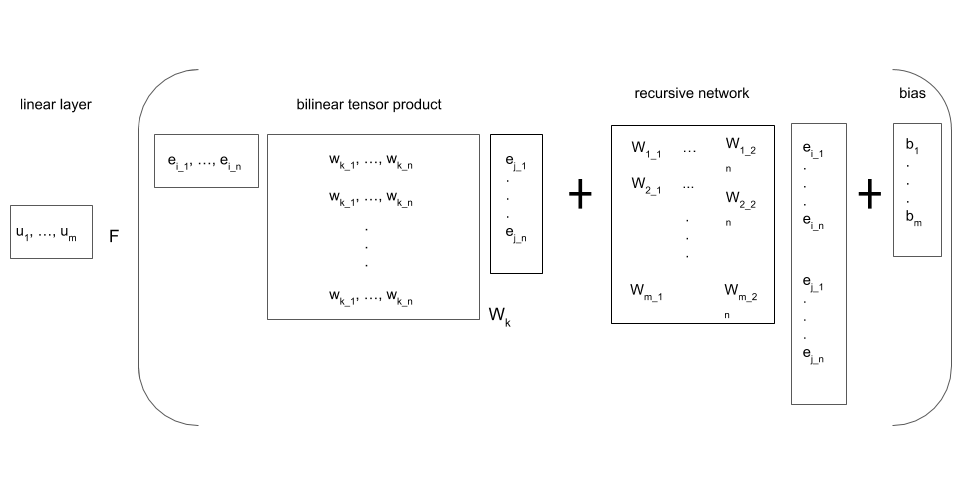
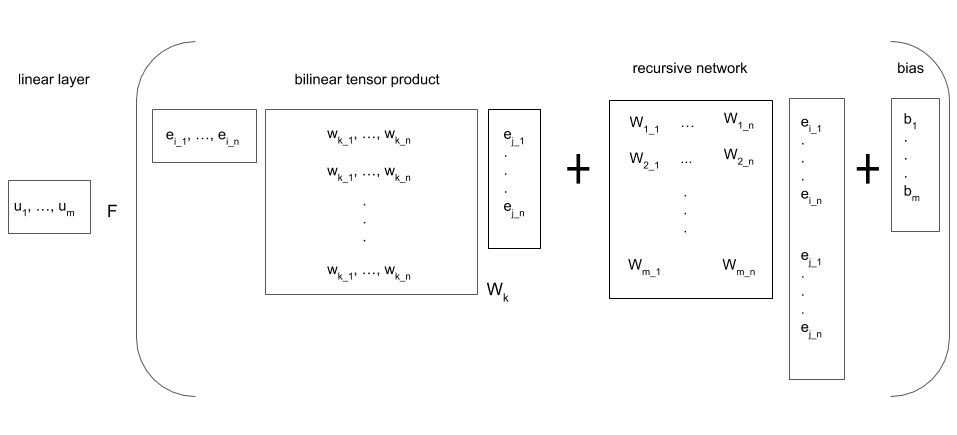
Chapter3 - Review comments 2 - Section3.2
Iterate hypernetworks intro partI.

diff --git a/Chapter3/chapter3.tex b/Chapter3/chapter3.tex
@@ -77,7 +77,7 @@ Chen et al.  \unskip ~\citep{socher2013reasoning} introduce nonlinear tensor fac
 
 \begin{figure}[H]
    	\centering
-    	\includegraphics[width=0.7\textwidth, height=0.4\textwidth]{recursive_neural_tensor_network.png}
+    	\includegraphics[width=0.8\textwidth, height=0.4\textwidth]{recursive_neural_tensor_network.png}
 	\captionsetup{justification=centering}
 	\caption{Recursive neural tensor network. This model computes the bilinear tensor product, and adds it to a recursive composition of entities and a bias. The result is squashed using a hyperbolic tangent function, and then multiplied by an output vector of relation parameters.}
 \end{figure}
@@ -136,9 +136,9 @@ Doss et al. \unskip~\citep{Doss2015} reimplemented the NTN model in TensorFlow \
 
 \subsection{Convolutional factorisation}
 
-ConvE introduced the convolutional operator to neural tensor factorisation \unskip ~\citep{dettmers2018convolutional}. Specifically, this operator increases expressiveness in entity-relation interaction modelling by using $ 2D $ convolutions, which are particularly effective at modelling the interactions of entities involved in a large number of relations. This may be due to filter parameter sharing between entity-relational combinations, however perhaps more pertinently, the convolutional operator performs nonlinear modelling of entity-relational interactions when summarising regions of interactions between the respective representations, as opposed to the bilnear tensor product, which performs simple linear interaction modelling. \par
+ConvE introduced the convolutional operator to neural tensor factorisation \unskip ~\citep{dettmers2018convolutional}. Specifically, this operator increases expressiveness in entity-relation interaction modelling by using $ 2D $ convolutions, which are particularly effective at modelling the interactions of entities involved in a large number of relations. This may be due to filter parameter sharing between entity-relational combination features, however perhaps more pertinently, the convolutional operator performs nonlinear modelling of entity-relational feature interaction when summarising regions of interactions between the respective representations, as opposed to the bilinear tensor product, which performs simple linear interaction modelling. \par
 
-\noindent ConvE concatenates subject and predicate matrices along the row axis, creating an entity-relational matrix. Convolutional filters are then applied to this representation, producing feature maps which are flattened by a fully connected layer. The dot product of this generated representation is then taken with the object vector, to compute an unnormalised relational score between the subject and object, before a sigmoid function is applied to produce a probability of relational plausibility. The model is defined as follows:
+\noindent ConvE concatenates subject and predicate matrices along the row axis, creating an entity-relational matrix.\ Convolutional filters are then applied to this representation, producing feature maps which are flattened by a fully connected layer.\ The inner product of this generated representation is then taken with the object vector, to compute an unnormalised relational score between the subject and object, before a sigmoid function is applied to produce a probability of relational plausibility. The model is defined as follows:
 \begin{equation}
 	\psi_r(e_s, \; e_o) = g(vec(f(\left [ \overline{e_s}; \; \overline{r_r} \right ]*w))W)e_o
 \end{equation}
@@ -168,9 +168,23 @@ ConvE introduced the convolutional operator to neural tensor factorisation \unsk
 
 \noindent where $ L $ is the loss value, $ p_i $ is the relational probability computed by the model, and $ t_i $ is the target. $ N $ is the batch size, and $ i $ is the sample index.
 
+
+%********************************************* HypER ****************************************************************
+
 \subsection{Hypernetwork factorisation}
 
-Hypernetworks are meta networks that generate parameters for a main network \unskip ~\citep{ha2016hypernetworks}. The networks essentially index the parameters of a main network as a configuration given input. This input is typically in the form of an embedding vector that represents all the weights of a given layer. The configuration is learned given a scenario experienced by the main network, for example when performing sequence prediction it may be advantageous for the main network to change its behaviour (parameter configuration) depending on the sequence window. The hypernetwork model can be defined as follows: 
+A hypernetwork is a meta network that generates parameters for a main network \unskip ~\citep{ha2016hypernetworks}. It compresses layer weights of a main network into an input embedding vector, which is analogous to a encoding a main network configuration. Hypernetworks are used to discover an efficient subset of main network parameters, reducing the total number of parameters without sacrificing performance. They are also used to enable parameter sharing across layers of a main network, without incurring the problem of vanishing and exploding gradients experienced by recurrent networks. \par
+
+\noindent A standard tensor serves as input to a main network, for example an image or sequence of words, while an embedding vector serves as input to a hypernetwork, see Figure 3.5. The embedding vector size is determined by the hypernetwork layer sizes and main network weight sizes. Static embedding vector input can be used, as well as  dynamic embedding vector input. For dynamic input, different embedding vectors are input at each time step, and can be useful for adapting the main network to its input sequence. In both cases the embedding vector is learned during end-to-end training of the main network using backpropagation. \par
+
+\begin{figure} [H]
+   	\centering
+    	\includegraphics[width=0.6\textwidth, height=0.4\textwidth]{hypernetwork.png}
+	\captionsetup{justification=centering}
+	\caption{Recursive network which constructs a composition tree between inputs. It begins with a full tree and is pruned during training to obtain the optimal structure.}
+\end{figure}
+
+\noindent The hypernetwork model can be defined as follows: 
 \begin{equation}
 	K_j = g(z_j), \quad \forall j = 1, \dots, D
 \end{equation}
